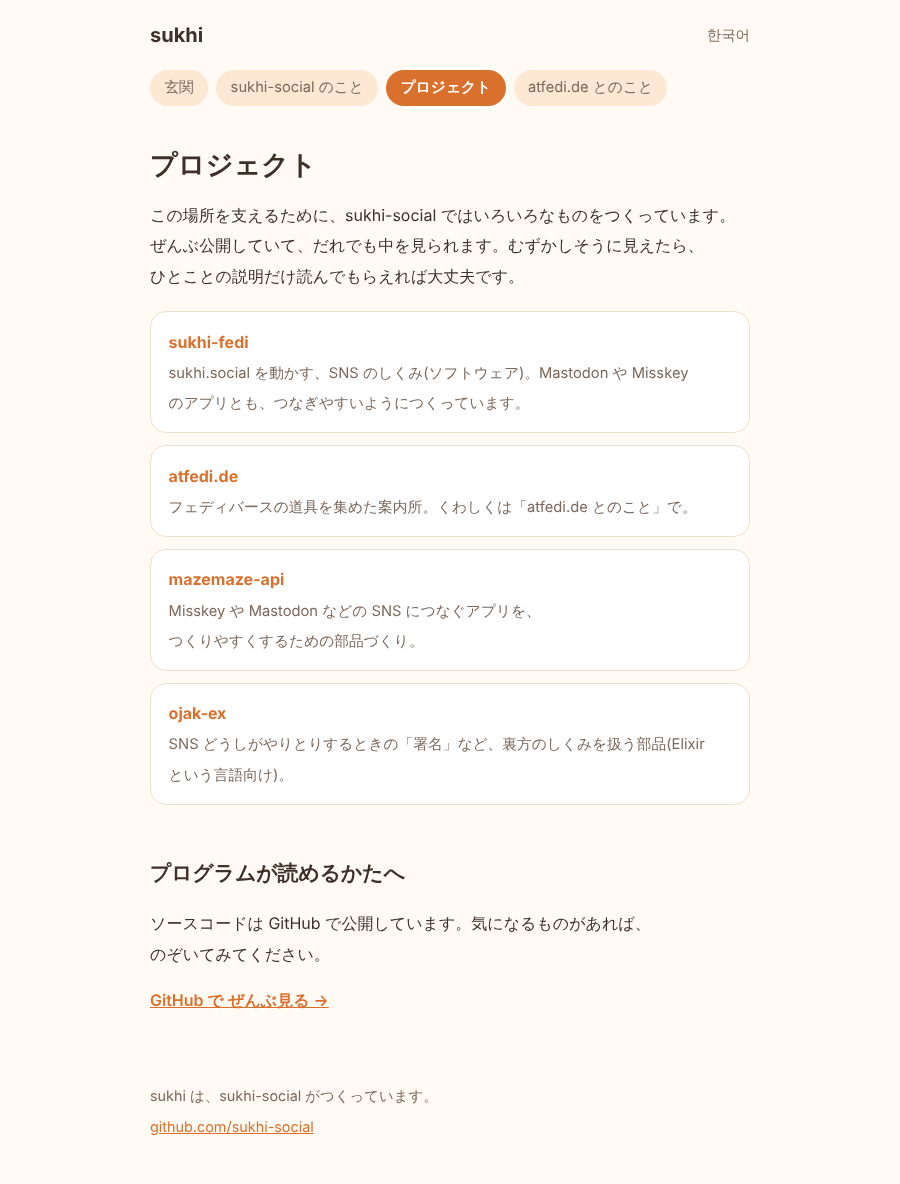
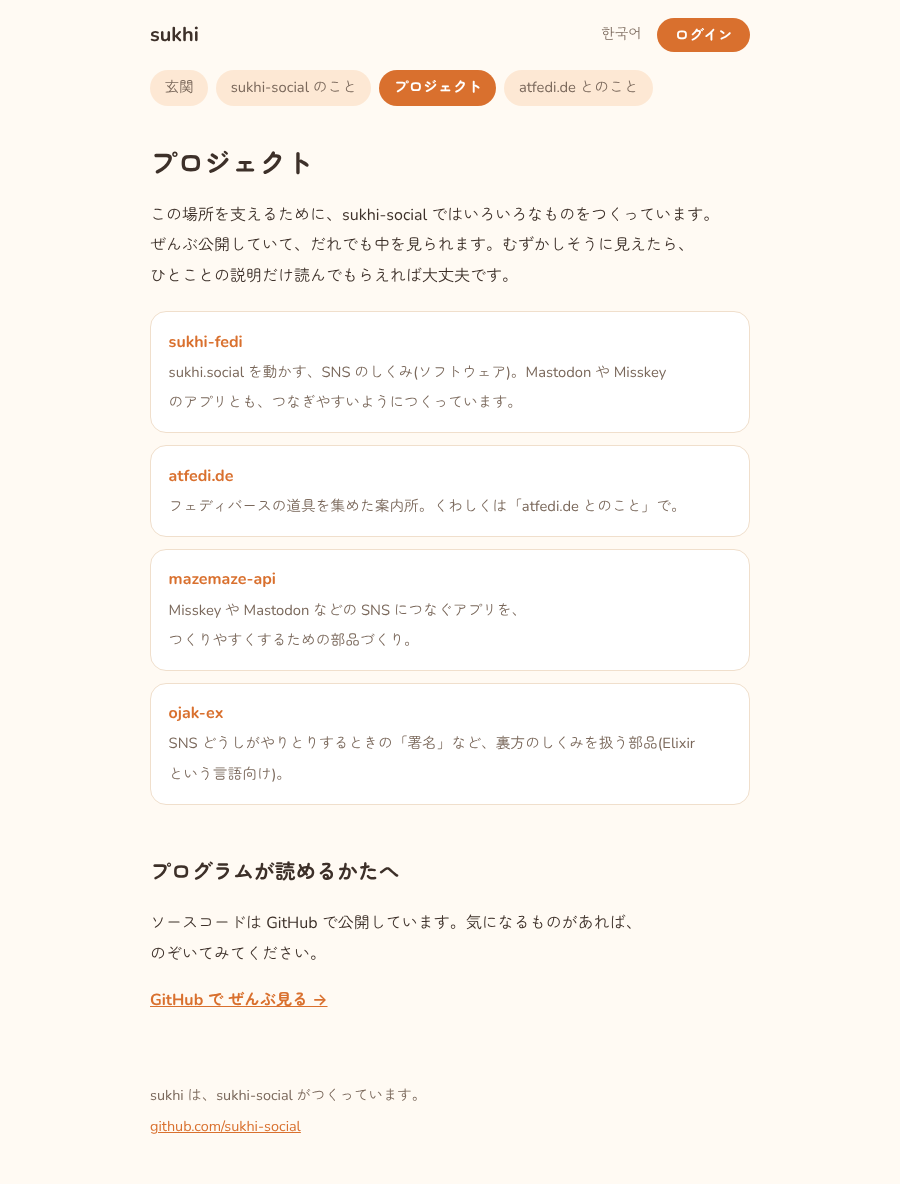
Login button to the top right; warm ja/en/ko font trio (Zen Maru Gothic, Nunito, Gowun Dodum), self-hosted
Claude-Session: https://claude.ai/code/session_01EUxHZau6UP3xLAsGqKBsmf

diff --git a/src/styles/about.css b/src/styles/about.css
@@ -25,7 +25,8 @@ body {
   margin: 0;
   background: var(--bg);
   color: var(--text);
-  font: 1rem/1.9 system-ui, 'Hiragino Sans', 'Noto Sans JP', 'Noto Sans KR', sans-serif;
+  font: 1rem/1.9 'Nunito', 'Zen Maru Gothic', 'Gowun Dodum', system-ui, 'Hiragino Sans', 'Noto Sans JP', 'Noto Sans KR', sans-serif;
+  font-synthesis: none;
   word-break: keep-all;
   overflow-wrap: anywhere;
 }
@@ -35,7 +36,7 @@ main, .bar, footer { max-width: var(--measure); margin-inline: auto; padding-inl
 .mark { font-weight: 700; font-size: 1.25rem; text-decoration: none; color: var(--text); }
 .bar nav a { color: var(--muted); text-decoration: none; font-size: 0.9rem; }
 .hero { padding-block: 3.5rem 2.5rem; }
-h1 { font-size: clamp(1.6rem, 6vw, 2.4rem); line-height: 1.4; margin: 0 0 1rem; }
+h1 { font-size: clamp(1.3rem, 5.4vw, 2.4rem); line-height: 1.4; margin: 0 0 1rem; text-wrap: balance; }
 h2 { font-size: 1.3rem; margin: 3rem 0 0.75rem; }
 .lead { color: var(--muted); margin: 0 0 1.5rem; }
 .login { display: flex; flex-wrap: wrap; align-items: center; gap: 0.75rem 1rem; }
@@ -83,3 +84,9 @@ main { min-height: 50vh; }
   .cards a, .button { transition: none; }
   .cards a:hover, .button:hover { transform: none; }
 }
+
+/* ── 右上: 言語とログイン ── */
+.bar .right { display: flex; align-items: center; gap: 1rem; }
+.button.small { padding: 0.3rem 1.1rem; font-size: 0.9rem; line-height: 1.7; }
+/* 韓国語の本文用フォント(Gowun Dodum)は太字がないので、見出しも標準の太さで、大きさでめりはりを出す。 */
+:lang(ko) h1, :lang(ko) h2, :lang(ko) strong, :lang(ko) .mark { font-weight: 400; }

diff --git a/src/content.ts b/src/content.ts
@@ -36,7 +36,6 @@ interface Copy {
   siteName: string;
   slogan: string;
   login: string;
-  loginNote: string;
   langSwitch: string;
   navLabel: string;
   nav: Record<PageKey, string>;
@@ -72,7 +71,6 @@ export const copy: Record<Locale, Copy> = {
     siteName: 'sukhi',
     slogan: 'あたたかいみんなといっしょに',
     login: 'ログイン',
-    loginNote: 'すでにアカウントがあるかたは、こちらから。',
     langSwitch: '한국어',
     navLabel: 'ページ',
     nav: { gate: '玄関', place: 'sukhi-social のこと', projects: 'プロジェクト', atfedi: 'atfedi.de とのこと' },
@@ -164,7 +162,6 @@ export const copy: Record<Locale, Copy> = {
     siteName: 'sukhi',
     slogan: '따뜻한 사람들과 함께',
     login: '로그인',
-    loginNote: '이미 계정이 있다면 여기로 오세요.',
     langSwitch: '日本語',
     navLabel: '페이지',
     nav: { gate: '현관', place: 'sukhi-social 이야기', projects: '프로젝트', atfedi: 'atfedi.de 이야기' },
